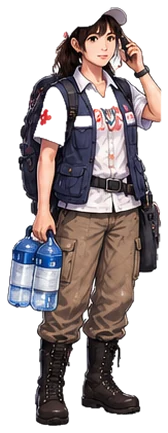
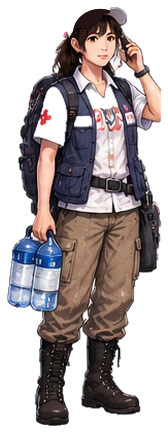
Death screen: black-and-white scene with gravestone; fix NPC_15 head
Claude-Session: https://claude.ai/code/session_01N2kaJCTXR5ZoZ9Kr3QPrqr

Changed region(s): [[0.4167, 0.0, 0.6548, 0.0901]]

diff --git a/index.src.html b/index.src.html
@@ -200,6 +200,25 @@ table.board tr.me td{background:rgba(214,166,58,.12)}
 select{background:var(--panel-2);color:var(--fg);border:1px solid var(--line-2);border-radius:8px;padding:8px 10px;font:inherit;max-width:100%}
 .note{font-size:12.5px;color:var(--faint)}
 .dead h3{color:var(--bad)}
+/* death (28 Oct): the scene drains to black and white, a grave stands where you stood, one candle keeps its colour */
+.scene.rip .bg,.scene.rip .actor .spr{filter:grayscale(1) brightness(.62) contrast(1.05);transition:filter 2.4s ease}
+.scene.rip{max-height:min(56vh,330px);flex-grow:3}
+.scene.rip .tint{background:linear-gradient(180deg,rgba(0,0,0,.35),rgba(0,0,0,.55))!important}
+.scene .grave{position:absolute;left:24%;bottom:6%;height:70%;transform:translateX(-50%);z-index:2;animation:graveIn 1.8s cubic-bezier(.2,.7,.3,1) .4s both}
+.scene .grave svg{height:100%;width:auto;display:block;overflow:visible}
+.scene .candle{position:absolute;left:36%;bottom:8%;height:15%;z-index:3;animation:graveIn 1.2s ease 1.6s both}
+.scene .candle .fl{transform-origin:50% 100%;animation:flick .9s ease-in-out infinite alternate}
+@keyframes graveIn{from{opacity:0;transform:translateX(-50%) translateY(14%)}to{opacity:1;transform:translateX(-50%) translateY(0)}}
+@keyframes flick{from{transform:scale(1,1)}to{transform:scale(.85,1.12) translateY(-3%)}}
+.card.rip{text-align:center;border-color:#4a4843;background:linear-gradient(180deg,#1b1b1a,#141413)}
+.card.rip .eyebrow{justify-content:center;letter-spacing:.2em}
+.card.rip .rname{font-family:var(--f-display);font-size:30px;font-weight:700;margin:2px 0 0;color:#e9e4d8}
+.card.rip .rdays{font-family:var(--f-mono);font-size:13px;color:var(--muted);letter-spacing:.08em}
+.card.rip .rcause{margin:8px 0 2px;font-size:15px}
+.card.rip .rcause b{color:var(--bad)}
+.card.rip .rlast{font-size:13px;color:var(--muted);margin:2px auto 0;max-width:34em;font-style:italic}
+.card.rip .foot{justify-content:center}
+@media (prefers-reduced-motion:reduce){.scene .grave,.scene .candle{animation:none}.scene .candle .fl{animation:none}}
 
 /* draft review panel */
 .overlay{position:fixed;inset:0;background:rgba(5,5,4,.7);z-index:20;display:flex;justify-content:center;align-items:flex-start;overflow:auto;padding:max(16px,env(safe-area-inset-top,0px)) max(16px,env(safe-area-inset-right,0px)) 24px max(16px,env(safe-area-inset-left,0px))}
@@ -723,12 +742,30 @@ function sceneHTML(ev,hour){
   var trader=(!ev&&st.phase==="summary"&&B.stock&&E.traderHere(st)&&A.npc[TRADER_NPC])?'<div class="actor" style="left:74%"><div class="shadow"></div><img class="spr" alt="'+esc(B.stock.trader.name)+'" src="'+A.npc[TRADER_NPC]+'"></div><span class="who-tag" style="left:74%">คุณพบ · '+esc(B.stock.trader.name)+'</span>':"";
   var npc=(ev&&opts.npc&&A.npc[ev.npc])?'<div class="actor'+(enter?' enter-right':'')+'" style="left:74%"><div class="shadow"></div><img class="spr'+(NPC_CUT[ev.npc]?' fade'+NPC_CUT[ev.npc]:'')+'" alt="'+esc(ev.role)+'" src="'+A.npc[ev.npc]+'"></div><span class="who-tag" style="left:74%">คุณพบ · '+esc(ev.role)+'</span>':"";
   var props=(ev&&opts.props&&ev.props.length)?'<div class="props" title="Props V24 · ยังไม่อนุมัติให้แสดงในเกม">'+ev.props.map(function(p){return A.props[p]?'<img alt="'+esc(D.propTerms[p]||p)+'" title="'+esc(p+" · "+(D.propTerms[p]||""))+'" src="'+A.props[p]+'">':"";}).join("")+'</div>':"";
-  return '<div class="scene"><div class="bg'+(loc?' loc':'')+'"'+(loc?' data-x="'+(ev?hash(ev.id)%100:50)+'"':'')+' style="background-image:url('+bg+');background-position:'+(loc?(ev?hash(ev.id)%100:50):x)+'% '+(loc?'62%':'50%')+'"></div>'+
+  var dead=st.phase==="dead";
+  if(dead){ player=graveHTML(); npc=""; }
+  return '<div class="scene'+(dead?' rip':'')+'"><div class="bg'+(loc?' loc':'')+'"'+(loc?' data-x="'+(ev?hash(ev.id)%100:50)+'"':'')+' style="background-image:url('+bg+');background-position:'+(loc?(ev?hash(ev.id)%100:50):x)+'% '+(loc?'62%':'50%')+'"></div>'+
     '<div class="tint" style="background:'+((loc&&(B.litScene||[]).indexOf(lk)>=0)?'linear-gradient(180deg,rgba(10,12,30,.12),rgba(10,10,20,.22))':tint(hour))+'"></div>'+player+pet+npc+trader+'<div class="vig"></div><div class="foot-band"></div>'+
     ((!loc&&B.stock&&st.built)?Object.keys(st.built).map(function(k){var b=E.buildDef(k),x=BUILT_X[k];if(!b||x==null||!A.props[b.prop])return "";var fresh=st.phase==="night"&&st.nightResult&&st.nightResult.build===k;return '<img class="bitem'+(fresh?' new':'')+(/^BUILD_/.test(b.prop)?' wide':'')+'" alt="'+esc(b.th)+'" title="'+esc(b.th)+'" style="left:'+x+'%" src="'+A.props[b.prop]+'">';}).join(""):'')+
     props+'</div>';
 }
 
+/* gravestone drawn in SVG: name and days engraved (28 Oct) */
+function graveHTML(){
+  var nm=esc(st.char.name), d=E.daysSurvived(st);
+  return '<div class="grave" role="img" aria-label="หลุมศพของ '+nm+'"><svg viewBox="0 0 120 150" xmlns="http://www.w3.org/2000/svg">'+
+    '<defs><linearGradient id="gs" x1="0" y1="0" x2="1" y2="1"><stop offset="0" stop-color="#9a9790"/><stop offset="1" stop-color="#5d5b56"/></linearGradient></defs>'+
+    '<ellipse cx="60" cy="146" rx="58" ry="7" fill="#2a2724"/>'+
+    '<path d="M16 146 V48 Q16 8 60 8 Q104 8 104 48 V146 Z" fill="url(#gs)" stroke="#3b3a36" stroke-width="2"/>'+
+    '<path d="M22 140 V50 Q22 15 60 15" fill="none" stroke="rgba(255,255,255,.18)" stroke-width="2"/>'+
+    '<path d="M42 40 h12 M66 40 h12" stroke="#3a3833" stroke-width="1.6" stroke-linecap="round"/><circle cx="60" cy="40" r="3" fill="#3a3833"/>'+
+    '<text x="60" y="70" text-anchor="middle" font-family="IBM Plex Sans Thai,sans-serif" font-weight="600" font-size="'+(st.char.name.length>7?11:14)+'" fill="#2e2c28">'+nm+'</text>'+
+    '<text x="60" y="88" text-anchor="middle" font-family="IBM Plex Mono,monospace" font-size="9" fill="#3a3833">วันที่ 1 – '+(st.deathDay||d)+'</text>'+
+    '<text x="60" y="104" text-anchor="middle" font-family="IBM Plex Sans Thai,sans-serif" font-size="8.5" fill="#3a3833">'+esc(st.char.occupation)+'</text>'+
+    '<path d="M18 146 q10 -10 22 -4 q10 -8 20 -2 q12 -7 22 0 q10 -6 20 6 Z" fill="#3d3a33"/>'+
+  '</svg></div>'+
+  '<div class="candle" aria-hidden="true"><svg viewBox="0 0 20 46" height="100%"><path class="fl" d="M10 2 C14 9 14 13 10 16 C6 13 6 9 10 2Z" fill="#f2b33d"/><rect x="6" y="17" width="8" height="27" rx="1.5" fill="#d9d2c0"/></svg></div>';
+}
 function pipsHTML(){
   var n=st.queue.length,h="";
   for(var i=0;i<n;i++){var cls=(st.phase==="summary"||st.phase==="dead"||st.phase==="night"||st.phase==="ending"||i<st.qi||(i===st.qi&&st.phase==="result"))?"done":(i===st.qi?"now":"");h+='<span class="pip '+cls+'"></span>';}
@@ -832,10 +869,12 @@ function renderGame(){
       submitBoxHTML()+'<p class="sec-h" style="margin-top:14px">อันดับออนไลน์</p><div data-online-board="10">'+onlineBoardHTML(10)+'</div><p class="sec-h" style="margin-top:12px">เครื่องนี้</p>'+boardHTML()+'</article>';
   } else if(st.phase==="dead"){
     var days=E.daysSurvived(st);
-    body='<article class="card dead"><div class="eyebrow">สิ้นสุดชีวิตรอบนี้</div><h3 style="font-family:var(--f-display);font-size:24px;margin:4px 0">'+esc(st.char.name)+' รอดชีวิตได้ <span class="num">'+days+'</span> วัน</h3>'+
-      '<p>เสียชีวิตจาก<b>'+esc(causeTh(st.deathCause))+'</b> คืนวันที่ '+st.deathDay+' ที่'+esc(st.char.province)+'</p>'+
+    var lastM=(st.memory||[]).filter(function(m){return m.id!=="NIGHT";}).slice(-1)[0];
+    body='<article class="card dead rip"><div class="eyebrow">สิ้นสุดชีวิตรอบนี้</div><div class="rname">'+esc(st.char.name)+'</div><div class="rdays">รอดชีวิต <span class="num">'+days+'</span> วัน · '+esc(st.char.province)+'</div>'+
+      '<p class="rcause">เสียชีวิตจาก<b>'+esc(causeTh(st.deathCause))+'</b> คืนวันที่ '+st.deathDay+'</p>'+
+      (lastM?'<p class="rlast">สิ่งสุดท้ายที่เลือก: '+esc(lastM.title)+' — '+esc(lastM.text)+'</p>':'')+
       '<div class="foot" style="margin-top:8px"><button class="btn" id="home2">หน้าแรก</button><button class="btn primary" id="again">เริ่มชีวิตใหม่</button>'+(opts.test?'<button class="btn ghost" id="logExport2">ส่งออกบันทึกทดสอบ</button>':'')+'</div>'+
-      submitBoxHTML()+'<p class="sec-h" style="margin-top:14px">อันดับออนไลน์</p><div data-online-board="10">'+onlineBoardHTML(10)+'</div><p class="sec-h" style="margin-top:12px">เครื่องนี้</p>'+boardHTML()+'</article>';
+      submitBoxHTML()+'<button class="more" id="boardsOpen" style="margin-top:6px">ดูอันดับผู้รอดชีวิต ›</button></article>';
   }
   var flash=st.phase==="result"&&st.lastResult?st.lastResult.delta:(st.phase==="summary"&&st.summary?st.summary.total:(st.phase==="night"&&st.nightResult?st.nightResult.delta:{}));
   var mtop='<div class="mtop">'+head+'<div class="wmini"><div class="badge">'+esc(st.char.name.charAt(0))+'</div><span><b>'+esc(st.char.name)+'</b> · '+esc(st.char.occupation)+'</span>'+sndBtn()+'<button id="charSheet">ตัวละคร ›</button></div>'+stripHTML(st.stats,flash)+'</div>';
@@ -858,6 +897,7 @@ function renderGame(){
 
   app.querySelectorAll(".choice").forEach(function(b){b.addEventListener("click",function(){var cur=E.currentEvent(st),ev0=cur&&cur.ev;var msOn=shownAt?Date.now()-shownAt:0;cue("tick");E.choose(st,b.dataset.k);st.playEvents=(st.playEvents||0)+1;st.playSec=(st.playSec||0)+Math.min(msOn,120000)/1000;if(ev0)plog("choice",{id:ev0.id,arc:ev0.arc,path:ev0.path||(E.pathFor(st,ev0.arc)||""),key:b.dataset.k,ms:shownAt?Date.now()-shownAt:""});persist();render();focusMain();});});
   on("logExport2",exportLog);
+  on("boardsOpen",function(){openSheet('<div class="eyebrow">อันดับผู้รอดชีวิต</div><p class="sec-h" style="margin-top:6px">อันดับออนไลน์</p><div data-online-board="10">'+onlineBoardHTML(10)+'</div><p class="sec-h" style="margin-top:12px">เครื่องนี้</p>'+boardHTML());});
   on("next",function(){E.next(st);if(st.phase==="summary")cue(st.summary&&st.summary.accident?"hurt":"day");if(st.phase==="dead")cue("death");if(st.phase==="summary")plog("day_end",{note:st.summary&&st.summary.accident?"accident -"+st.summary.accident:""});if(st.phase==="dead"){plog("death",{note:causeTh(st.deathCause)});recordDeath();}persist();render();focusMain();});
   on("nextday",function(){E.nextDay(st);if(st.phase==="ending"){cue("day");plog("ending",{note:st.ending.key});recordDeath();}if(st.phase==="dead"){cue("death");recordDeath();}persist();render();focusMain();window.scrollTo({top:0,behavior:"smooth"});});
   app.querySelectorAll(".nopt").forEach(function(b){b.addEventListener("click",function(){

diff --git a/tests/online.js b/tests/online.js
@@ -14,7 +14,7 @@ for(const withMock of [false,true]){const p=await b.newPage({viewport:{width:390
  await p.evaluate(()=>{const s=window.__ww3.state;s.stats.health=3;s.stats.hydration=0;});
  for(let i=0;i<4&&!(await p.$('.card.dead'));i++){await p.click('.choice >> nth=1');await p.click('#next');}
  await p.waitForTimeout(400);
- const t2=await p.textContent('.card.dead [data-online-board]');
+ await p.click('#boardsOpen');const t2=await p.textContent('#bsheet [data-online-board]');
  const ov=await p.evaluate(()=>{const c=document.querySelector('.main > .card');return [c.scrollHeight-c.clientHeight,document.documentElement.scrollHeight-innerHeight]});
  await p.screenshot({path:ROOT+'/dist/shots/online_'+withMock+'.png'});
  console.log(withMock?'MOCK':'NO-CLAUDE','| title:',t1.slice(0,80),'| dead:',t2.replace(/\s+/g,' ').slice(0,160),'| overflow',ov, withMock?JSON.stringify(await p.evaluate(()=>window.__docs['board/me1'])):'');

diff --git a/HANDOFF.md b/HANDOFF.md
@@ -56,6 +56,8 @@
 - **ฉากเปิดเกม (28 ต.ค. อนุมัติ · บทบรรยาย = ร่าง Claude รอทีมบท):** `INTRO` + `playIntro()` ใน index.src.html · 5 ภาพ (BG03/BG02/BG07/BG01-B/BG08) ภาพเลื่อนช้า ข้อความขึ้นทีละบรรทัด · ขึ้นครั้งแรกที่กด "เริ่มชีวิตใหม่" (`ww3ts.intro.v1`) ดูซ้ำด้วยปุ่ม "ดูฉากเปิดเกม" หน้าแรก · แตะ = ภาพถัดไป, "ข้าม" = ข้าม
   - เสียงพากย์: ถ้ามีไฟล์ `assets/vo/intro_1 … intro_5` (.mp3/.m4a/.ogg) จะใช้ไฟล์ ไม่มีก็ใช้เสียงอ่านภาษาไทยของเครื่อง (speechSynthesis) เครื่องไหนไม่มีเสียงไทย = ตัวหนังสือ + ดนตรี · ดนตรีใช้ `MUS` อารมณ์ `intro` ลดเสียงลงตอนพากย์ · ปิดเสียงแล้วไม่พากย์
 - **ความขาดแคลน (28 ต.ค. อนุมัติชุด ก):** `stock.spoil` อาหาร 6% / น้ำ 4% ต่อชิ้นต่อคืน (แสดง "ของเสียระหว่างคืน") · `stock.prodByChapter` [1,1,0.6,0.5] = โอกาสที่รอบผลิตของบ้านจะได้ของในบท 1–4 · เหตุผล: เดิมกลางเกมของล้น (วันที่ 100 เฉลี่ย 31 ชิ้น) ผู้เล่นเฝ้าบ้านทุกคืน · หลังแก้ ~12 ชิ้น ออกค้นหา 16 คืน/รอบ
+- **หน้าตาย (28 ต.ค.):** ฉากกลายเป็นขาวดำ (`.scene.rip`) ป้ายหลุมศพ SVG สลักชื่อ/วันที่/อาชีพ (`graveHTML`) + เทียนสีเดียวในภาพ · การ์ดตายแบบกระชับ + สิ่งสุดท้ายที่เลือก · อันดับย้ายไปปุ่ม "ดูอันดับผู้รอดชีวิต" (เปิดแผ่นล่าง)
+- **NPC_15 (28 ต.ค.):** ภาพต้นฉบับหัวขาดเฉียงใต้หมวก — เติมผมส่วนบนแล้ว (ต้นฉบับเดิมอยู่ใน git history)
 - **ภาพชุดใหม่ (28 ต.ค. ผู้กำกับส่งให้ใส่):** ฉาก `BG09-classroom` `BG10-activity` `BG11-kitchen` `BG12-kitchen2` `BG13-commkitchen` `BG14-yard-night` `BG15/16/17-front-*` (960×540)
   - `eventScene` เพิ่ม: ห้องเรียน R121 R125 R126 R127 · ห้องกิจกรรม R123 R129 · ครัว R012 R018 · ครัวกลาง R085 · ลานกลางคืน R151 R155 · `"FRONT"` = หน้าบ้านตามฐานะ (`frontScene`) ใช้กับ R152 และตอนเจ๊เง็กมาเคาะประตู
   - เฝ้าบ้านกลางคืนใช้ฉาก `BG14-yard-night` (`night.actions.guard.scene`) · `litScene` = ภาพที่มีแสงในภาพแล้ว ย้อมสีเวลาเบา ๆ
